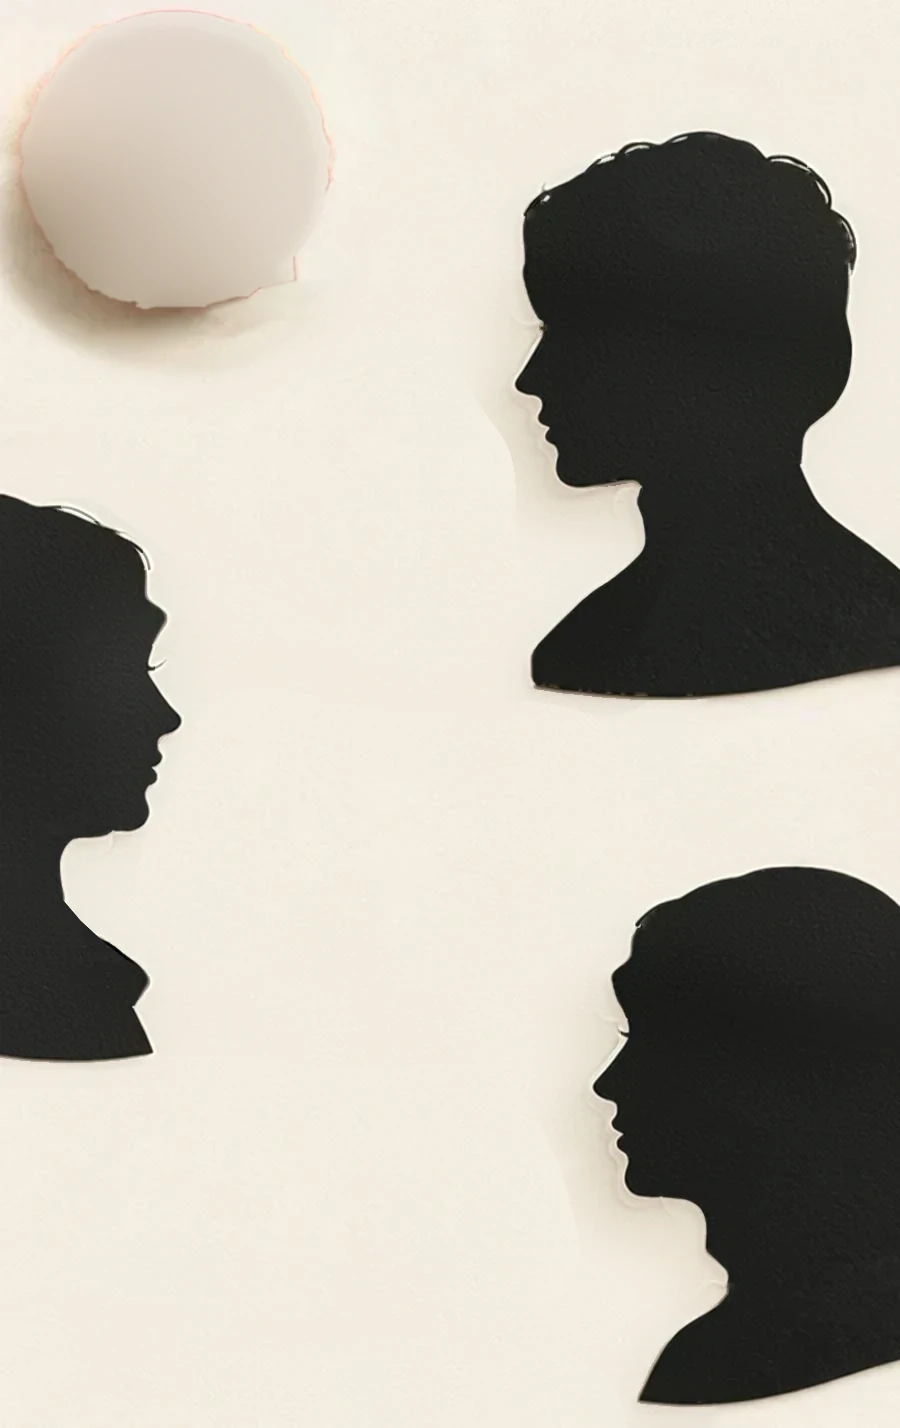
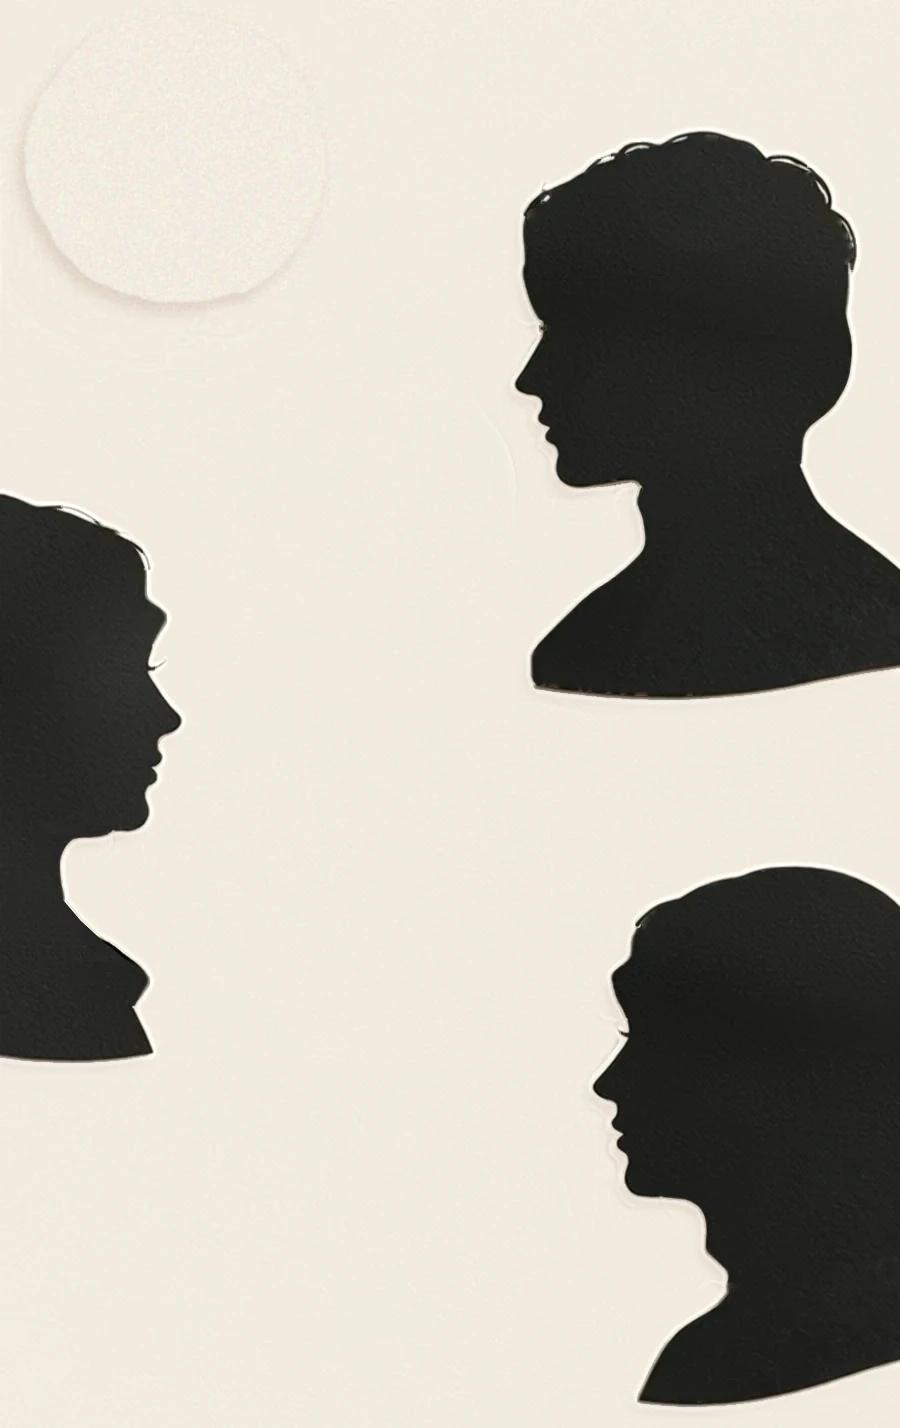
Matassa: fondo piatto senza le ombre della foto, ombre disegnate fisse per profili e matassa (l'ombra del filo resta nel livello animato); peluria solo attaccata alla palla, niente aureola (#29)
Claude-Session: https://claude.ai/code/session_01K8S9kDcMmADtdHMs7poTsz

diff --git a/assets/js/matassa.js b/assets/js/matassa.js
@@ -13,7 +13,8 @@
      fondo), in 16 bit: rosso = byte alto, verde = byte basso;
    - palla.png: la matassa ritagliata con la sua peluria su sfondo trasparente, a doppia
      risoluzione (708x708, si disegna a 354 nel quadro {x,y}); nella base al suo posto c'e' la carta
-     con l'ombra proiettata, ferma. Girando il png la lana gira tutta e il bordo resta peloso.
+     piatta (via le ombre della foto) con le ombre fisse, disegnate, dei profili e della matassa;
+     l'ombra del filo sta nel livello del filo e compare con lui. Girando il png la lana gira tutta.
    Con prefers-reduced-motion il palco e' alto uno schermo e il filo e' gia' tutto. */
 (function () {
   'use strict';
@@ -48,8 +49,8 @@
   function prepara() {
     var nome = verticale && verticale.matches ? 'stretto' : 'largo', T = TAGLI[nome];
     if (scena && scena.nome === nome) return;
-    Promise.all([carica(DIR + nome + '-base.webp?v=9'), carica(DIR + nome + '-filo.webp?v=9'), carica(DIR + nome + '-tempo.png?v=9'),
-                 carica(DIR + nome + '-palla.png?v=1')]).then(function (r) {
+    Promise.all([carica(DIR + nome + '-base.webp?v=10'), carica(DIR + nome + '-filo.webp?v=10'), carica(DIR + nome + '-tempo.png?v=10'),
+                 carica(DIR + nome + '-palla.png?v=2')]).then(function (r) {
       var fp = pixel(r[1], T.W, T.H), tp = pixel(r[2], T.W, T.H);
       cBase.width = cFilo.width = T.W; cBase.height = cFilo.height = T.H;
       var out = cFilo.getContext('2d').createImageData(T.W, T.H), od = out.data;

diff --git a/index.html b/index.html
@@ -596,7 +596,7 @@
 </footer>
 
 <!-- prima la matassa: se c'e', site.js non disegna il filo colorato dell'apertura -->
-<script src="assets/js/matassa.js?v=20261003y" defer></script>
+<script src="assets/js/matassa.js?v=20261003z" defer></script>
 <script src="assets/js/site.js?v=20261003q" defer></script>
 <script src="assets/js/filo-laterale.js?v=4" defer></script>
 </body>
